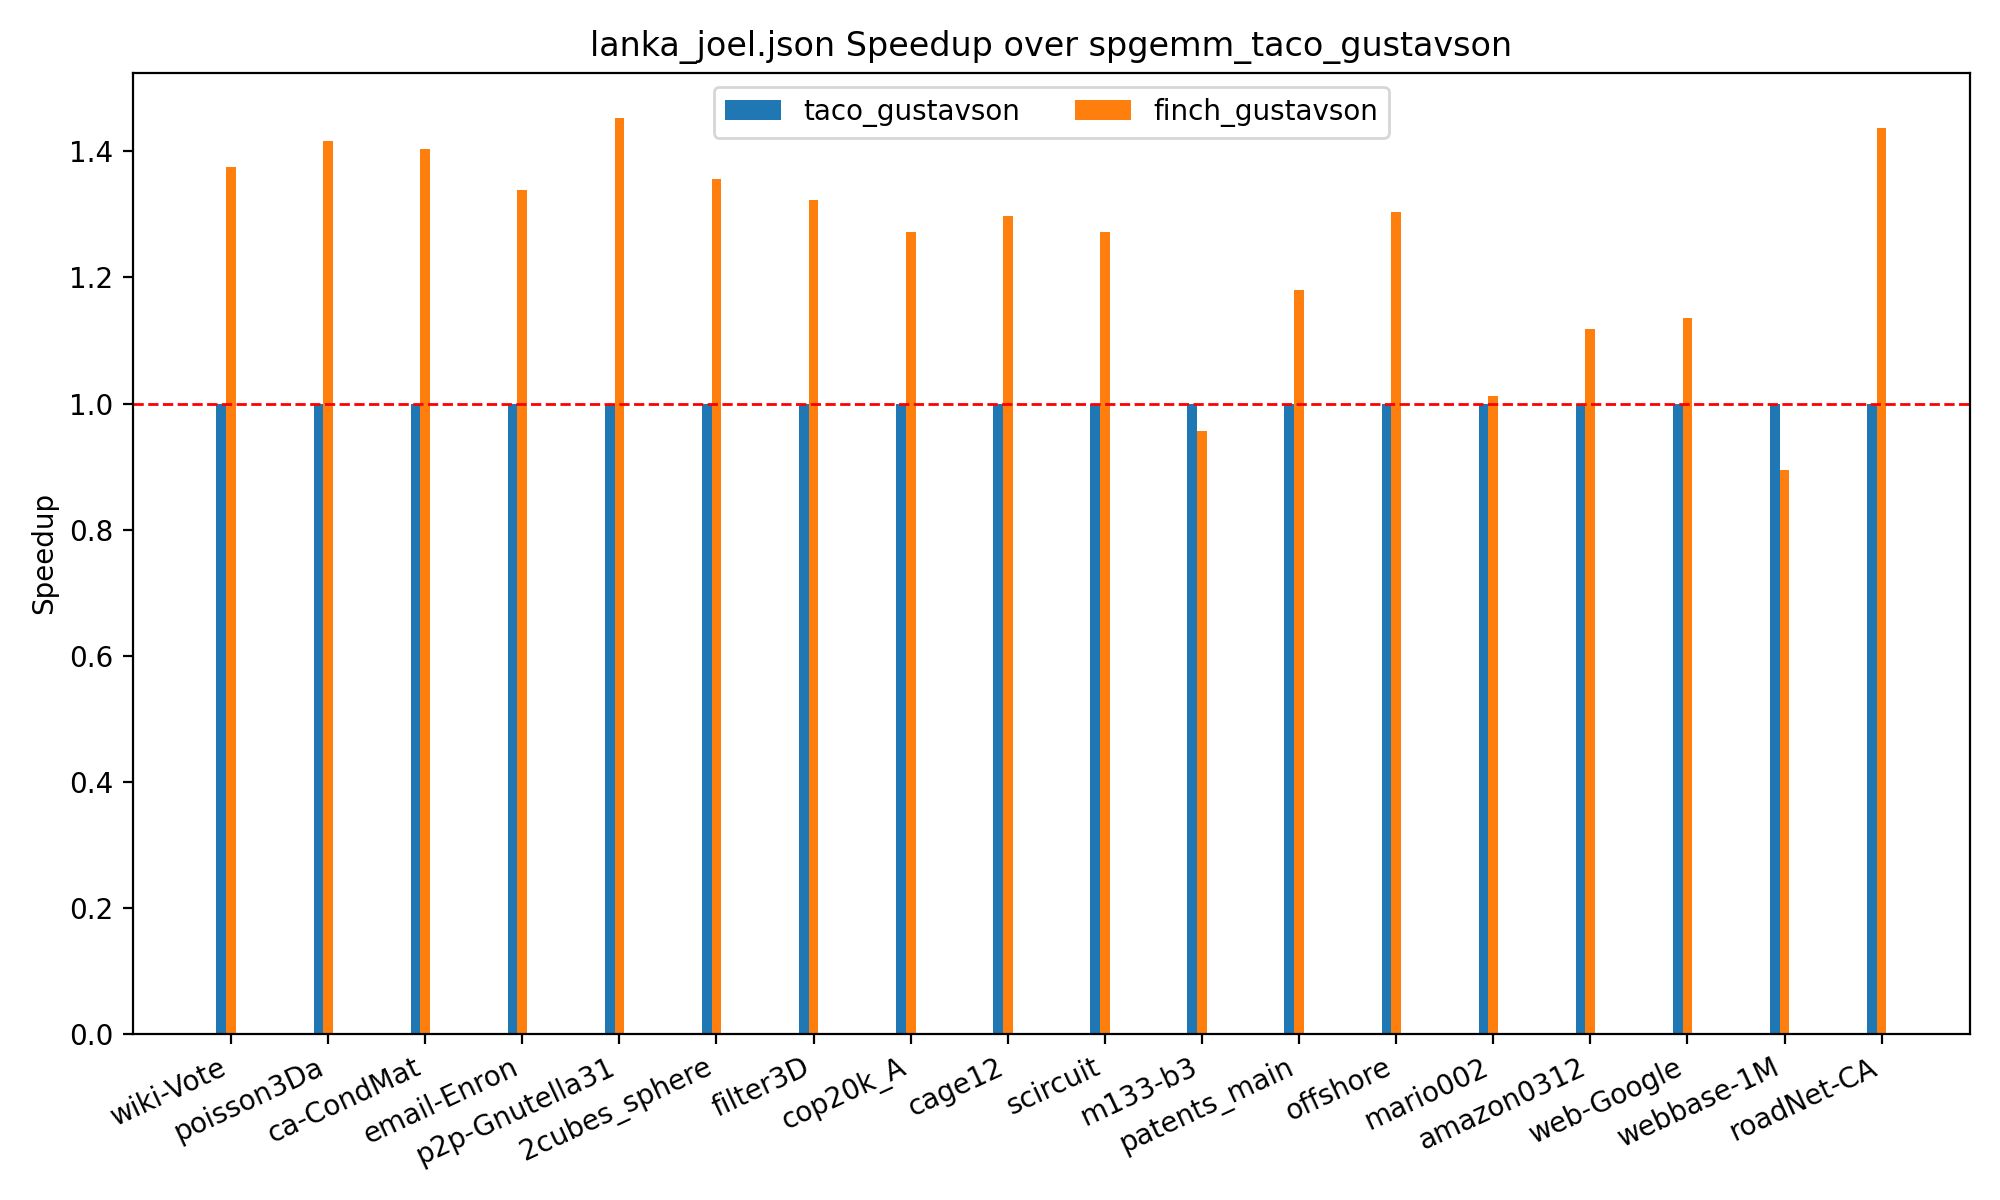
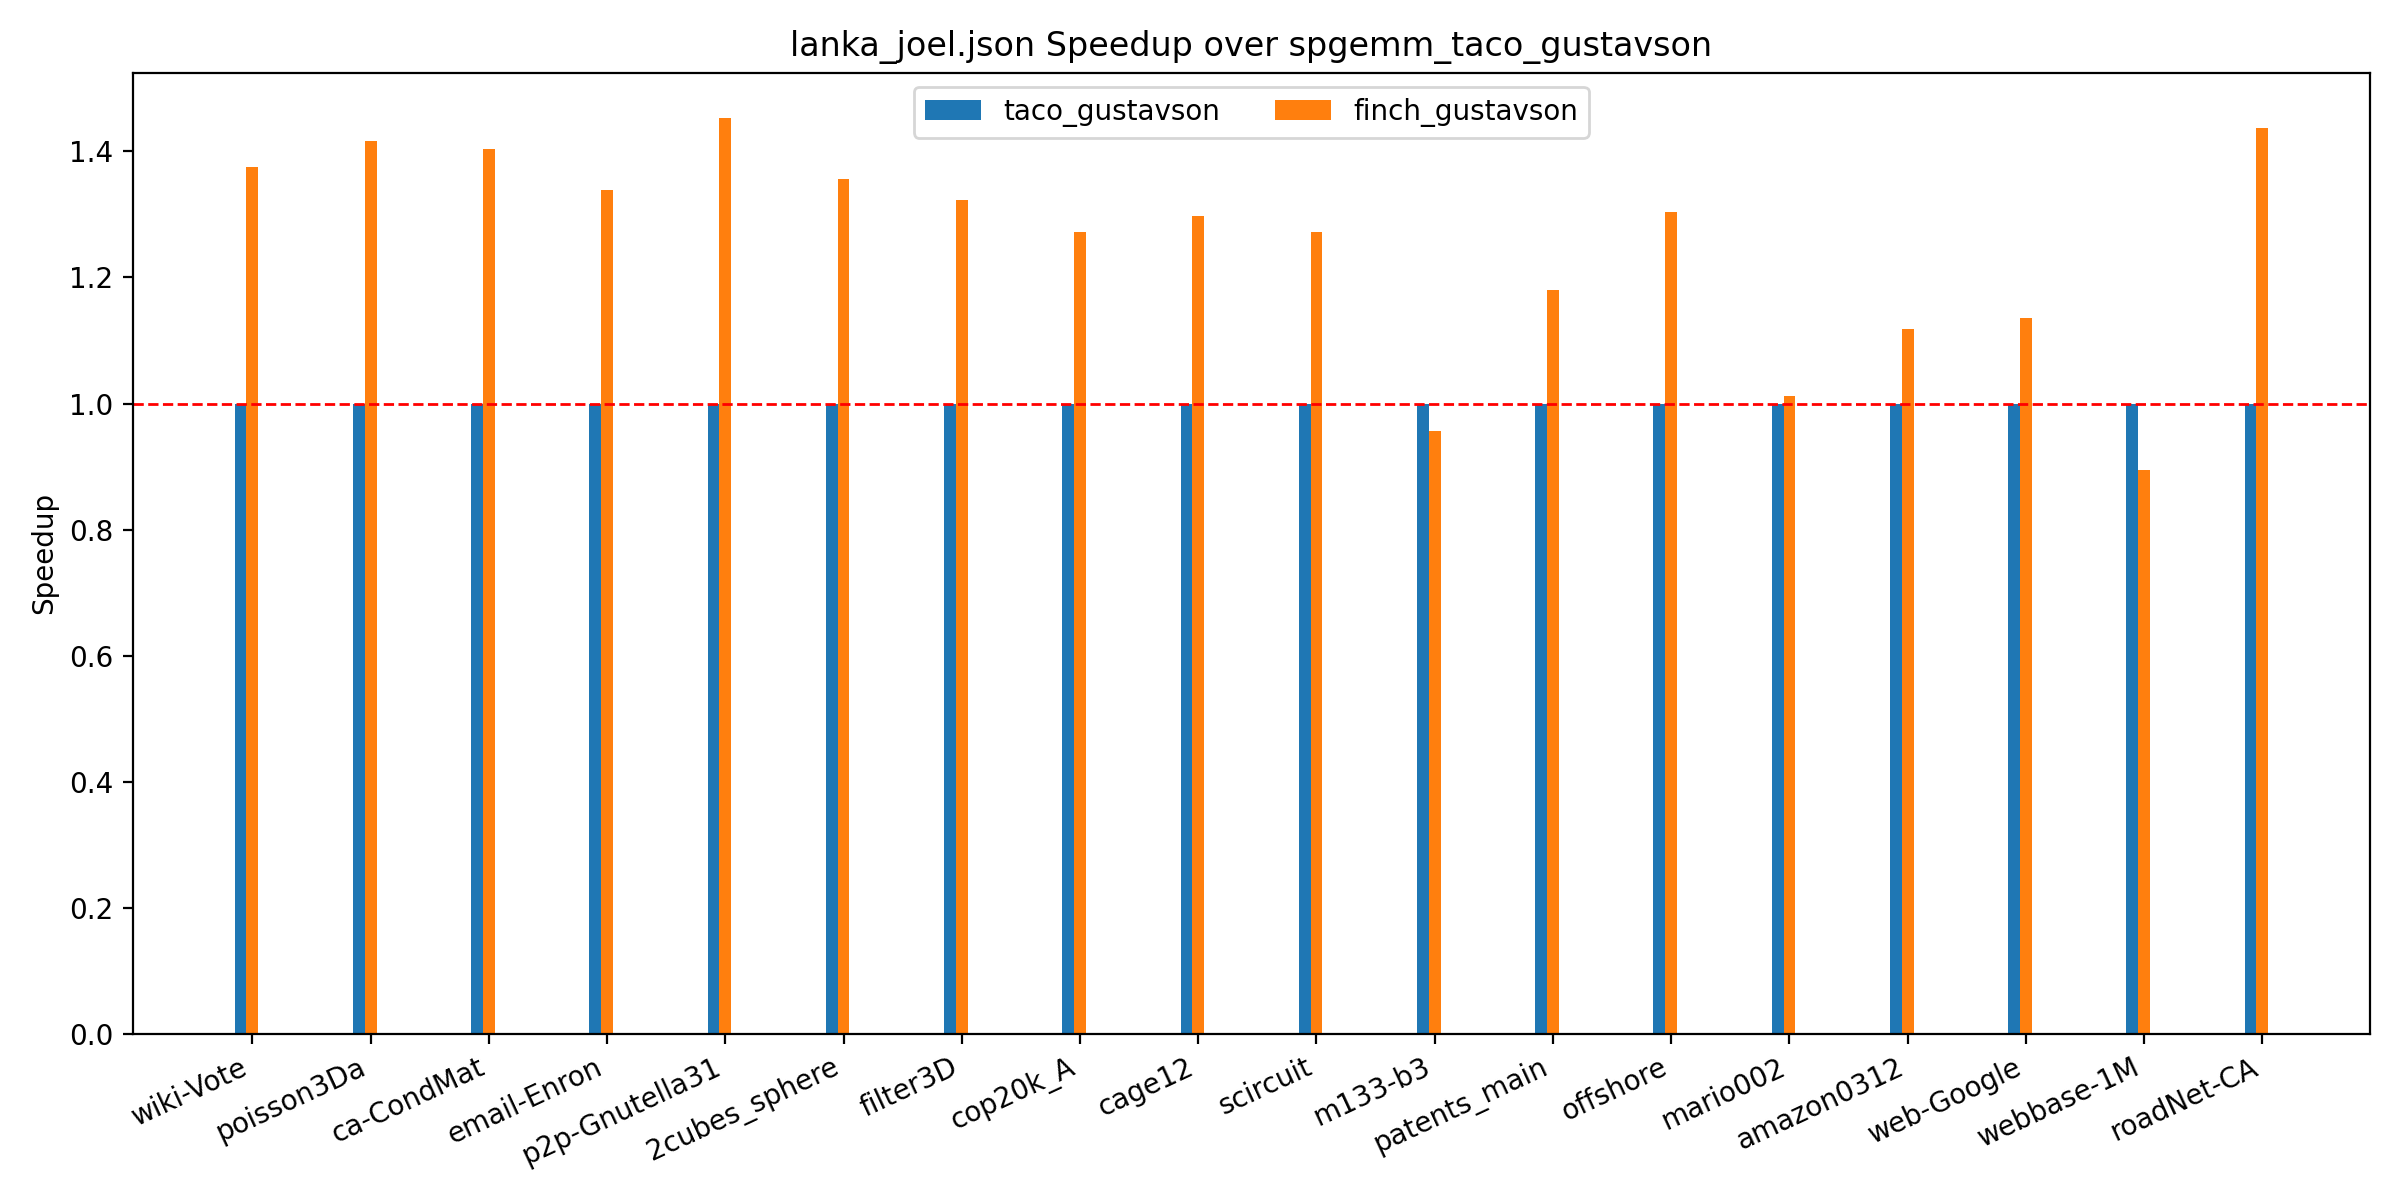
cool

diff --git a/morphology/chart.py b/morphology/chart.py
@@ -85,14 +85,14 @@ def add_value_labels(ax, spacing=5):
         label = "{:.1f}".format(y_value)
 
         # Create annotation
-        ax.annotate(
-            label,                      # Use `label` as label
-            (x_value, y_value),         # Place label at end of the bar
-            xytext=(0, space),          # Vertically shift label by `space`
-            textcoords="offset points", # Interpret `xytext` as offset in points
-            ha='center',                # Horizontally center label
-            va=va)                      # Vertically align label differently for
-                                        # positive and negative values.
+        #ax.annotate(
+        #    label,                      # Use `label` as label
+        #    (x_value, y_value),         # Place label at end of the bar
+        #    xytext=(0, space),          # Vertically shift label by `space`
+        #    textcoords="offset points", # Interpret `xytext` as offset in points
+        #    ha='center',                # Horizontally center label
+        #    va=va)                      # Vertically align label differently for
+        #                                # positive and negative values.
 
 def make_grouped_bar_chart(labels, x_axis, data, title="", y_label="Speedup", log_scale=False):
     x = np.arange(len(x_axis))  # the label locations
@@ -118,6 +118,9 @@ def make_grouped_bar_chart(labels, x_axis, data, title="", y_label="Speedup", lo
 
     if log_scale:
         ax.set_yscale('log')  # Set the y-axis to a logarithmic scale
+
+    # Add a horizontal dashed red line at y=1.0
+    ax.axhline(y=1.0, color='red', linestyle='--')
 
     plt.tight_layout()
     fig_file = f"{title.lower().replace(' ', '_').replace('-', '_').replace('/', '_')}.png"

diff --git a/spgemm/chart.py b/spgemm/chart.py
@@ -54,8 +54,8 @@ def make_grouped_bar_chart(labels, x_axis, data, filename, title="", y_label="Sp
 
     for i, label in enumerate(labels):
         offset = width * (i - len(labels)/2)  # Center bars around the tick
+        #cross-hatch the bar if the string "finch" is not in the label
         ax.bar(x + offset, data[label], width, label=re.sub("spgemm_", "", label))
-        
 
     ax.axhline(y=1, color='r', linestyle='--', linewidth=1)
 

diff --git a/graphs/chart.py b/graphs/chart.py
@@ -66,6 +66,9 @@ def make_grouped_bar_chart(labels, x_axis, data, title="", y_label="Speedup", lo
     plt.tight_layout()
     fig_file = f"{title.lower().replace(' ', '_').replace('-', '_')}.png"
 
+    # Add a horizontal dashed red line at y=1.0
+    ax.axhline(y=1.0, color='red', linestyle='--')
+
     plt.savefig(CHARTS_DIRECTORY + fig_file, dpi=200)
     plt.show()
 
